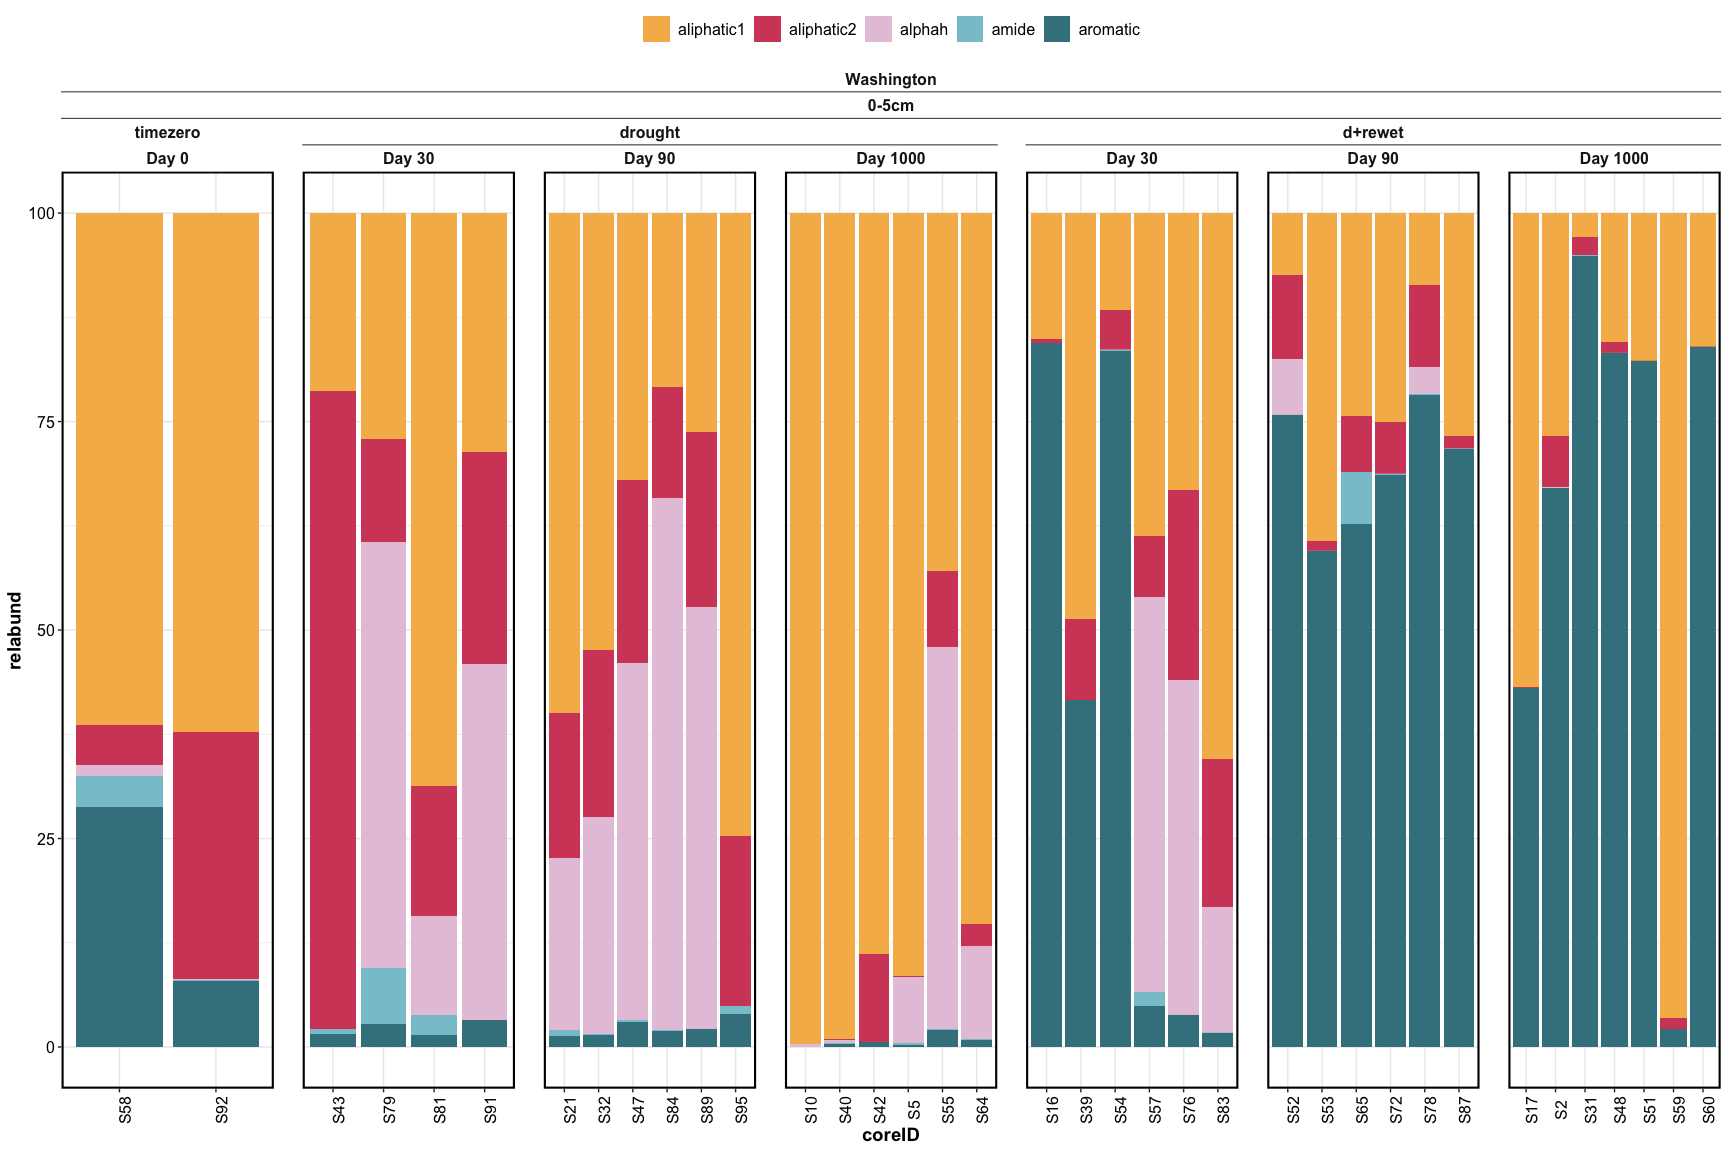
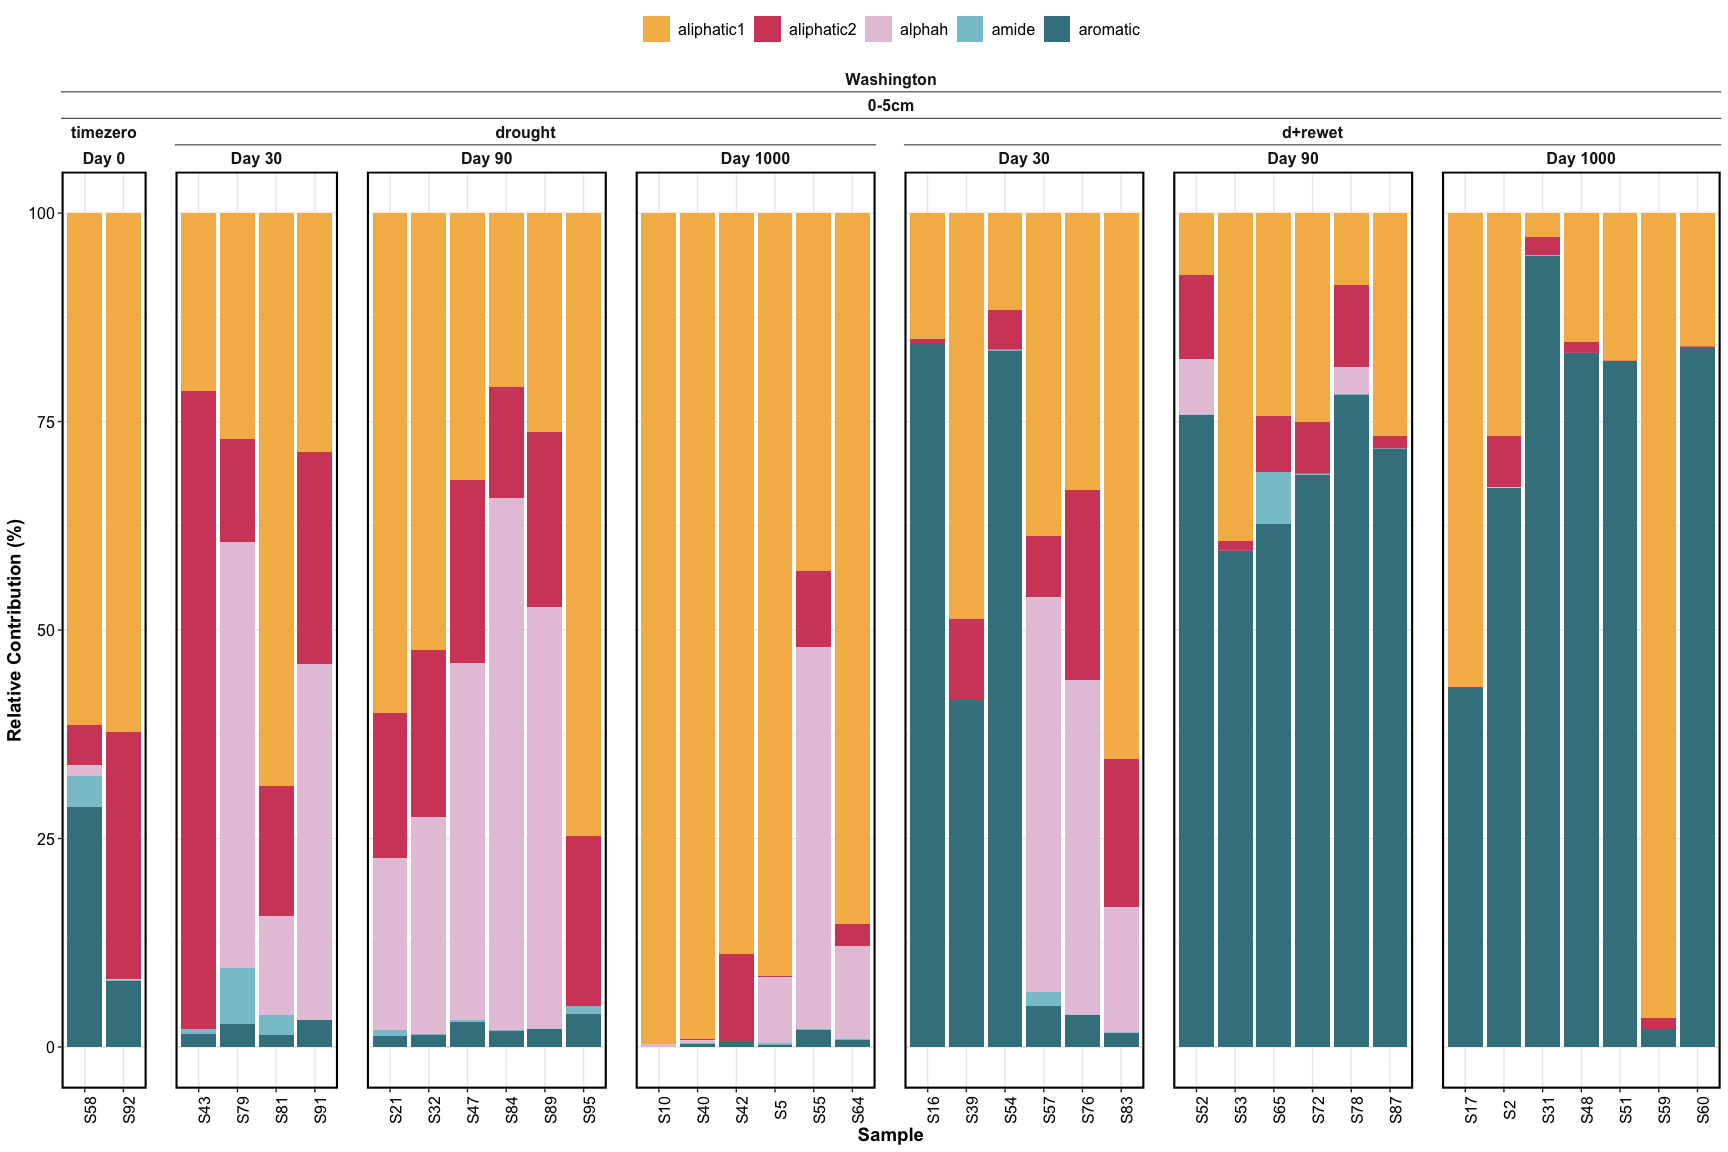
update NMR figures

diff --git a/3-reports/chemistry_report_NEW.md b/3-reports/chemistry_report_NEW.md
@@ -14,7 +14,7 @@ chemistry_report_NEW
 | depth      |   1 | 0.0506674 | 0.1149601 |  88.057141 |   0.001 |
 | length     |   2 | 0.2056311 | 0.4665603 | 178.687892 |   0.001 |
 | saturation |   1 | 0.1540093 | 0.3494347 | 267.659890 |   0.001 |
-| drying     |   1 | 0.0018533 | 0.0042049 |   3.220881 |   0.078 |
+| drying     |   1 | 0.0018533 | 0.0042049 |   3.220881 |   0.065 |
 | Residual   |  89 | 0.0512099 | 0.1161911 |         NA |      NA |
 | Total      |  94 | 0.4407384 | 1.0000000 |         NA |      NA |
 
@@ -24,7 +24,7 @@ chemistry_report_NEW
 |:-----------|----:|----------:|----------:|------------:|--------:|
 | length     |   2 | 0.1219450 | 0.7254832 | 189.9259569 |   0.001 |
 | saturation |   1 | 0.0420732 | 0.2503049 | 131.0558189 |   0.001 |
-| drying     |   1 | 0.0000653 | 0.0003882 |   0.2032546 |   0.679 |
+| drying     |   1 | 0.0000653 | 0.0003882 |   0.2032546 |   0.655 |
 | Residual   |  43 | 0.0138044 | 0.0821262 |          NA |      NA |
 | Total      |  47 | 0.1680880 | 1.0000000 |          NA |      NA |
 
@@ -111,6 +111,8 @@ Click for details
 </details>
 
 ![](chemistry_report_NEW_files/figure-gfm/nmr_pca_overall-1.png)<!-- -->
+
+![](chemistry_report_NEW_files/figure-gfm/nmr_pca_washington-1.png)<!-- -->
 
 ## NMR relabund
 
